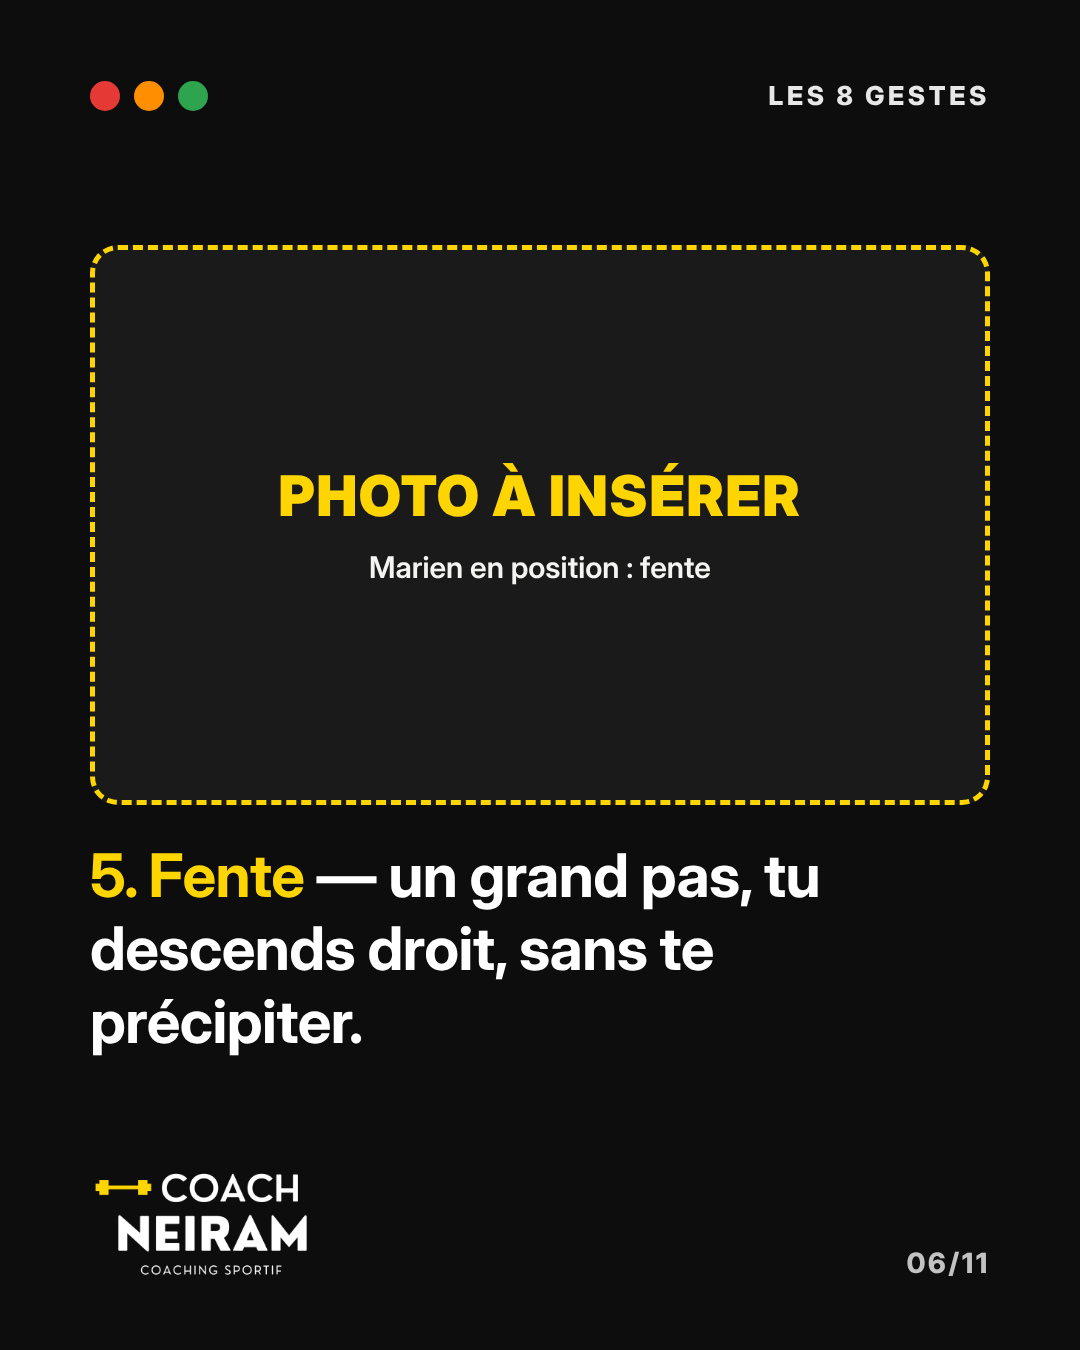
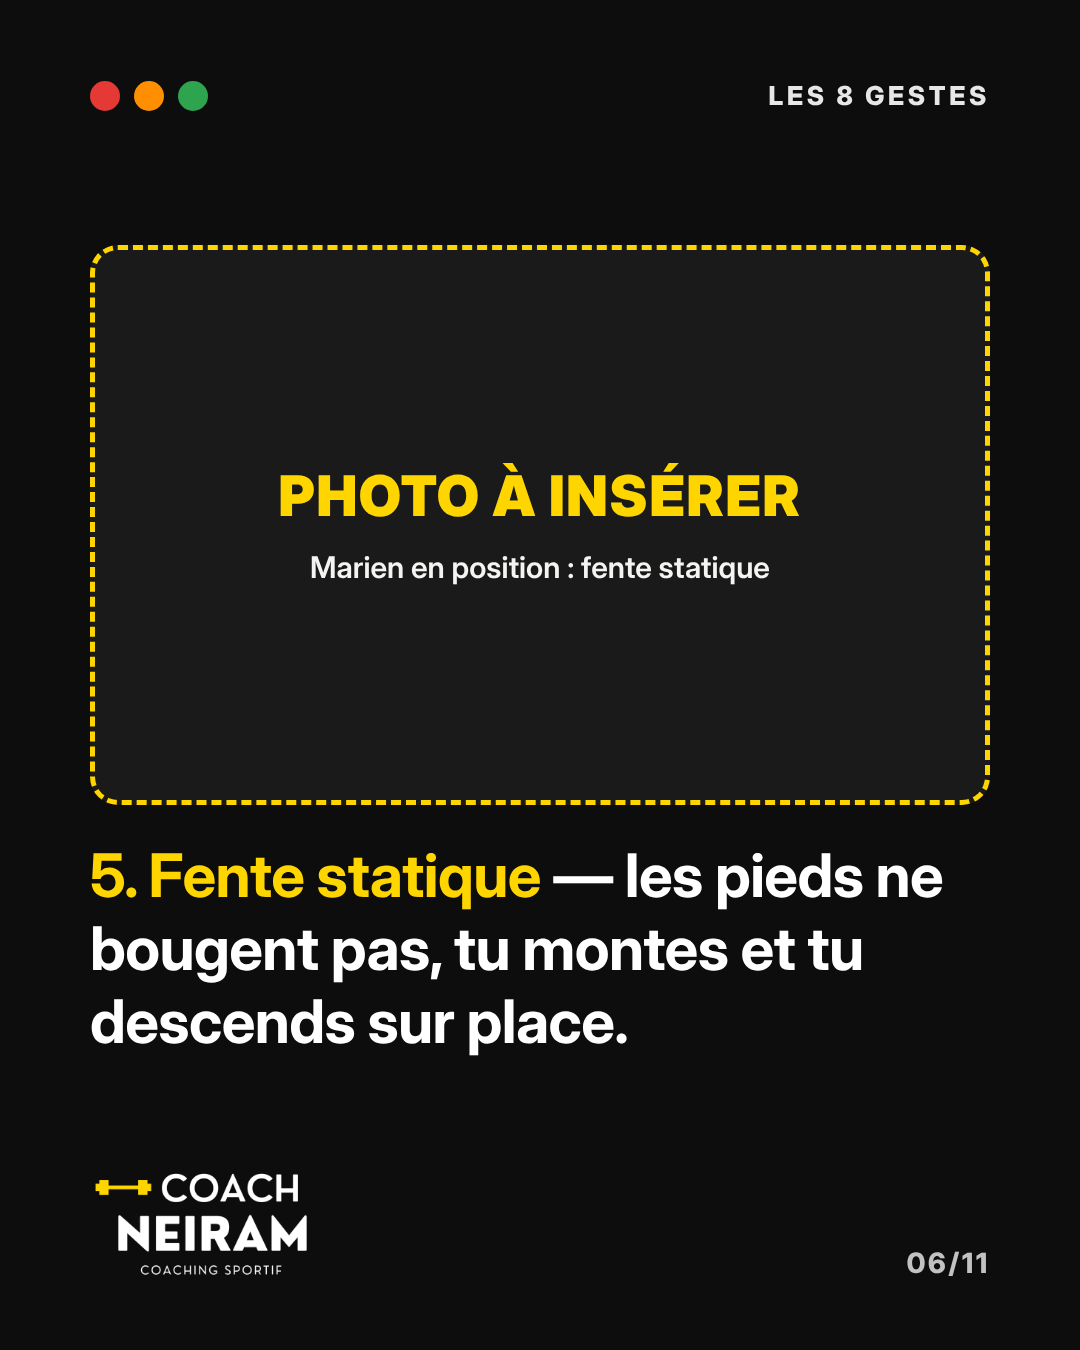
Feu Vert : « Fente statique » et « Tirage vertical à la poulie » sur la page
Décision de Marien du 18/11/2026 (geste n° 5). Liste des 8 gestes,
Passeport d'exemple et déroulé S3 ; nom du geste 7 aligné sur l'app.
Slide P06_06 du carrousel régénérée.

Claude-Session: https://claude.ai/code/session_01F4D7Lo9ySbD2mJushm8BNZ

Changed region(s): [[0.0917, 0.6222, 0.8861, 0.7778], [0.275, 0.4044, 0.7028, 0.4356]]

diff --git a/feu-vert.html b/feu-vert.html
@@ -392,9 +392,9 @@
       <li><span class="name">Soulevé de terre jambes tendues (roumain)</span><span class="lights is-r" role="img" aria-label="Démarre au rouge"><i class="r"></i><i class="o"></i><i class="g"></i></span></li>
       <li><span class="name">Rowing haltère</span><span class="lights is-r" role="img" aria-label="Démarre au rouge"><i class="r"></i><i class="o"></i><i class="g"></i></span></li>
       <li><span class="name">Développé haltères</span><span class="lights is-r" role="img" aria-label="Démarre au rouge"><i class="r"></i><i class="o"></i><i class="g"></i></span></li>
-      <li><span class="name">Fente</span><span class="lights is-r" role="img" aria-label="Démarre au rouge"><i class="r"></i><i class="o"></i><i class="g"></i></span></li>
+      <li><span class="name">Fente statique</span><span class="lights is-r" role="img" aria-label="Démarre au rouge"><i class="r"></i><i class="o"></i><i class="g"></i></span></li>
       <li><span class="name">Gainage</span><span class="lights is-r" role="img" aria-label="Démarre au rouge"><i class="r"></i><i class="o"></i><i class="g"></i></span></li>
-      <li><span class="name">Tirage (poulie)</span><span class="lights is-r" role="img" aria-label="Démarre au rouge"><i class="r"></i><i class="o"></i><i class="g"></i></span></li>
+      <li><span class="name">Tirage vertical à la poulie</span><span class="lights is-r" role="img" aria-label="Démarre au rouge"><i class="r"></i><i class="o"></i><i class="g"></i></span></li>
       <li><span class="name">Presse à cuisses</span><span class="lights is-r" role="img" aria-label="Démarre au rouge"><i class="r"></i><i class="o"></i><i class="g"></i></span></li>
     </ol>
 
@@ -434,9 +434,9 @@
           <li>Soulevé de terre roumain <span class="lights is-g" role="img" aria-label="vert"><i class="r"></i><i class="o"></i><i class="g"></i></span></li>
           <li>Rowing haltère <span class="lights is-g" role="img" aria-label="vert"><i class="r"></i><i class="o"></i><i class="g"></i></span></li>
           <li>Développé haltères <span class="lights is-o" role="img" aria-label="orange"><i class="r"></i><i class="o"></i><i class="g"></i></span></li>
-          <li>Fente <span class="lights is-o" role="img" aria-label="orange"><i class="r"></i><i class="o"></i><i class="g"></i></span></li>
+          <li>Fente statique <span class="lights is-o" role="img" aria-label="orange"><i class="r"></i><i class="o"></i><i class="g"></i></span></li>
           <li>Gainage <span class="lights is-o" role="img" aria-label="orange"><i class="r"></i><i class="o"></i><i class="g"></i></span></li>
-          <li>Tirage (poulie) <span class="lights is-r" role="img" aria-label="rouge"><i class="r"></i><i class="o"></i><i class="g"></i></span></li>
+          <li>Tirage vertical à la poulie <span class="lights is-r" role="img" aria-label="rouge"><i class="r"></i><i class="o"></i><i class="g"></i></span></li>
           <li>Presse à cuisses <span class="lights is-r" role="img" aria-label="rouge"><i class="r"></i><i class="o"></i><i class="g"></i></span></li>
         </ul>
         <div class="level">
@@ -499,7 +499,7 @@
     <ol class="timeline">
       <li><span class="wk" aria-hidden="true">S1</span><h3>Semaine 1 — Point de départ.</h3><p>Accès au programme dans l'application, présentation de ton binôme et de tes objectifs de départ (premier check-in le lundi 25 janvier). Tu filmes tes premiers essais. Les 8 gestes démarrent au rouge. Mission 1 : heure creuse.</p><div class="chips"><span class="chip y">Mission 1</span></div></li>
       <li><span class="wk" aria-hidden="true">S2</span><h3>Semaine 2 — Gestes 1 à 4.</h3><p>Premières corrections vidéo sur squat gobelet, soulevé de terre roumain, rowing et développé. Live collectif de la semaine sur le placement.</p></li>
-      <li><span class="wk" aria-hidden="true">S3</span><h3>Semaine 3 — Gestes 5 à 8.</h3><p>Corrections sur fente, gainage, tirage poulie et presse à cuisses. Mission 2 : zone principale.</p><div class="chips"><span class="chip y">Mission 2</span></div></li>
+      <li><span class="wk" aria-hidden="true">S3</span><h3>Semaine 3 — Gestes 5 à 8.</h3><p>Corrections sur fente statique, gainage, tirage poulie et presse à cuisses. Mission 2 : zone principale.</p><div class="chips"><span class="chip y">Mission 2</span></div></li>
       <li><span class="wk" aria-hidden="true">S4</span><h3>Semaine 4 — Premiers verts.</h3><p>La charge augmente uniquement sur les gestes validés. Une séance bonus s'ajoute. Mission 3 : demander un poste.</p><div class="chips"><span class="chip y">Mission 3</span><span class="chip">+1 séance bonus</span></div></li>
       <li><span class="wk" aria-hidden="true">S5</span><h3>Semaine 5 — Consolidation.</h3><p>Les gestes encore orange reçoivent la priorité des corrections. Mission 4 : heure pleine.</p><div class="chips"><span class="chip y">Mission 4</span></div></li>
       <li><span class="wk" aria-hidden="true">S6</span><h3>Semaine 6 — Bilan.</h3><p>Vidéo de fin sur tes gestes, point sur ton Passeport et ton niveau, et je te dis honnêtement ce qui te serait le plus utile ensuite.</p></li>
